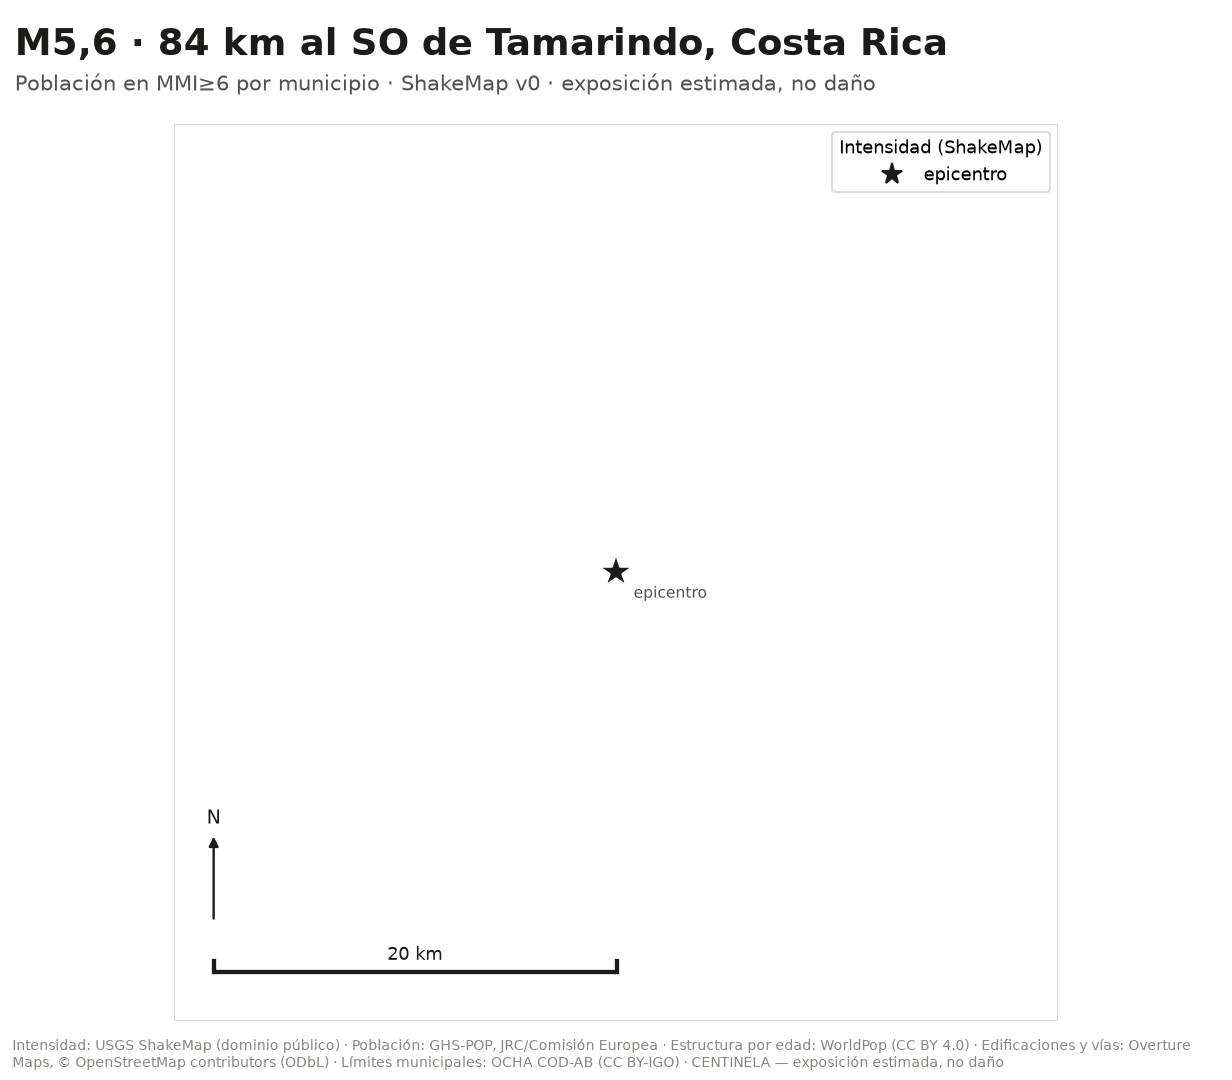
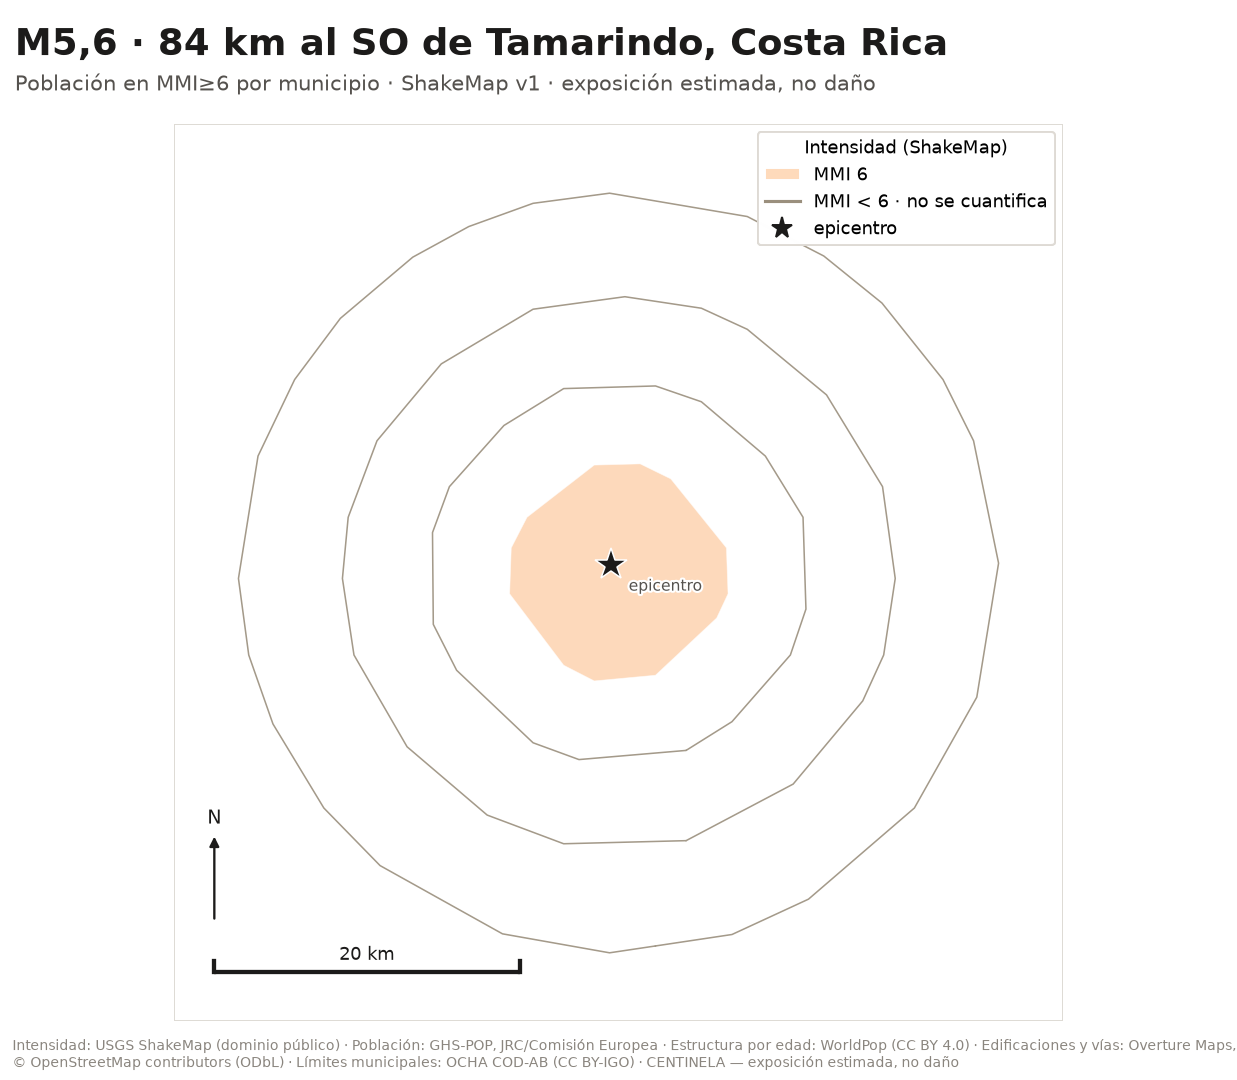
P3: reporte de us6000tymj

diff --git a/reports/us6000tymj/report.md b/reports/us6000tymj/report.md
@@ -2,9 +2,25 @@
 
 **Evento USGS:** `us6000tymj` · **Origen:** 2026-09-30T21:55:27Z UTC · **Profundidad:** 10,0 km
 
-> **Reporte preliminar sin ShakeMap.** El corte es por radios alrededor del epicentro, no por intensidad modelada. Se actualiza automáticamente en cuanto USGS publique el ShakeMap del evento.
+## Exposición estimada
 
-## Población por distancia al epicentro
+| Indicador | Estimado |
+|---|---:|
+| Población en MMI≥6 | el evento no llegó a esta banda |
+| Población en MMI≥7 | el evento no llegó a esta banda |
+| Población en MMI≥8 | el evento no llegó a esta banda |
+| Edificaciones en MMI≥6 | 0 |
+| Sedes de salud en MMI≥6 | 0 |
+| Sedes educativas en MMI≥6 | 0 |
+| Kilómetros de vía en MMI≥6 | 0 km |
+
+> **Todas las cifras en cero es un resultado, no un fallo.** El ShakeMap de este evento sí dibuja intensidad, pero no alcanza MMI≥6 sobre territorio habitado del país: la sacudida quedó mar adentro o sobre zona despoblada. El cálculo corrió entero.
+
+Las cifras de esta tabla van redondeadas a dos cifras significativas, que es la precisión que un modelo de exposición sostiene. Las exactas están en el CSV municipal y en `report.json`.
+
+### Población por distancia al epicentro
+
+Ninguna banda de intensidad alcanza población, así que la única cifra que dimensiona este evento es la distancia:
 
 | Radio desde el epicentro | Población |
 |---|---:|
@@ -18,16 +34,34 @@ Los radios **no son bandas de intensidad**. Aquí no hay modelo de sacudida, sol
 
 USGS no ha publicado el producto *Ground Failure* para este evento. La sección se omite; el reporte se re-emite automáticamente si aparece.
 
+## Referencia cruzada
+
+PAGER (USGS) estima para este evento una alerta **verde**. CENTINELA no estima víctimas; la cifra se incluye solo como contraste.
+
+Las dos cifras **no se tabulan igual** y no se pueden leer una contra otra: PAGER agrupa por MMI redondeado (su fila «7» es todo lo que cae entre 6,5 y 7,49) y CENTINELA usa bandas literales, donde MMI≥7 es MMI≥7. Puede además que no hablen del mismo ShakeMap: este reporte declara en «Procedencia» qué versión consumió, y PAGER pudo correr sobre otra versión o sobre otro producto del mismo sismo. El contraste banda a banda, hecho y comprobado para el sismo de San José del Palmar, está en `docs/PARA_INSTITUCIONES.md`.
+
 ## Incertidumbre y calidad
 
-Discrepancia entre GHS-POP y WorldPop: **no se calcula en un reporte preliminar**. El contraste se hace celda a celda dentro de las bandas de intensidad, y sin ShakeMap todavía no hay bandas que cortar. Aparecerá en cuanto el reporte se re-emita con el ShakeMap.
+Discrepancia entre GHS-POP y WorldPop: **no se pudo medir**. Ninguna celda dentro de las bandas publicadas tiene población de WorldPop con la que contrastar.
+
+- El epicentro está a 78 km de la población más cercana del país con la que se comparó. La sacudida no alcanzó territorio habitado.
+
+## Cambios frente a la versión anterior
+
+- ShakeMap: v0 → v1
+- Ninguna cifra publicada cambia frente a la versión anterior.
+
+## Descargas
+
+- [CSV por municipio](adm2.csv)
+- [Mapa PNG](mapa_general.png)
 
 ## Procedencia
 
-- ShakeMap consumido: **ninguno** (no publicado aún)
+- ShakeMap consumido: **v1**
 - Ground Failure consumido: **ninguno** (no publicado aún)
 - Manifiesto de exposición: [`cri-v0.4`](https://github.com/sforero77/CENTINELA/blob/main/data/manifests/CRI.yaml)
-- Pipeline: `0.1.0` · Generado: 2026-09-30T22:10:50Z
+- Pipeline: `0.1.0` · Generado: 2026-09-30T22:15:59Z
 
 ## Advertencias
 
